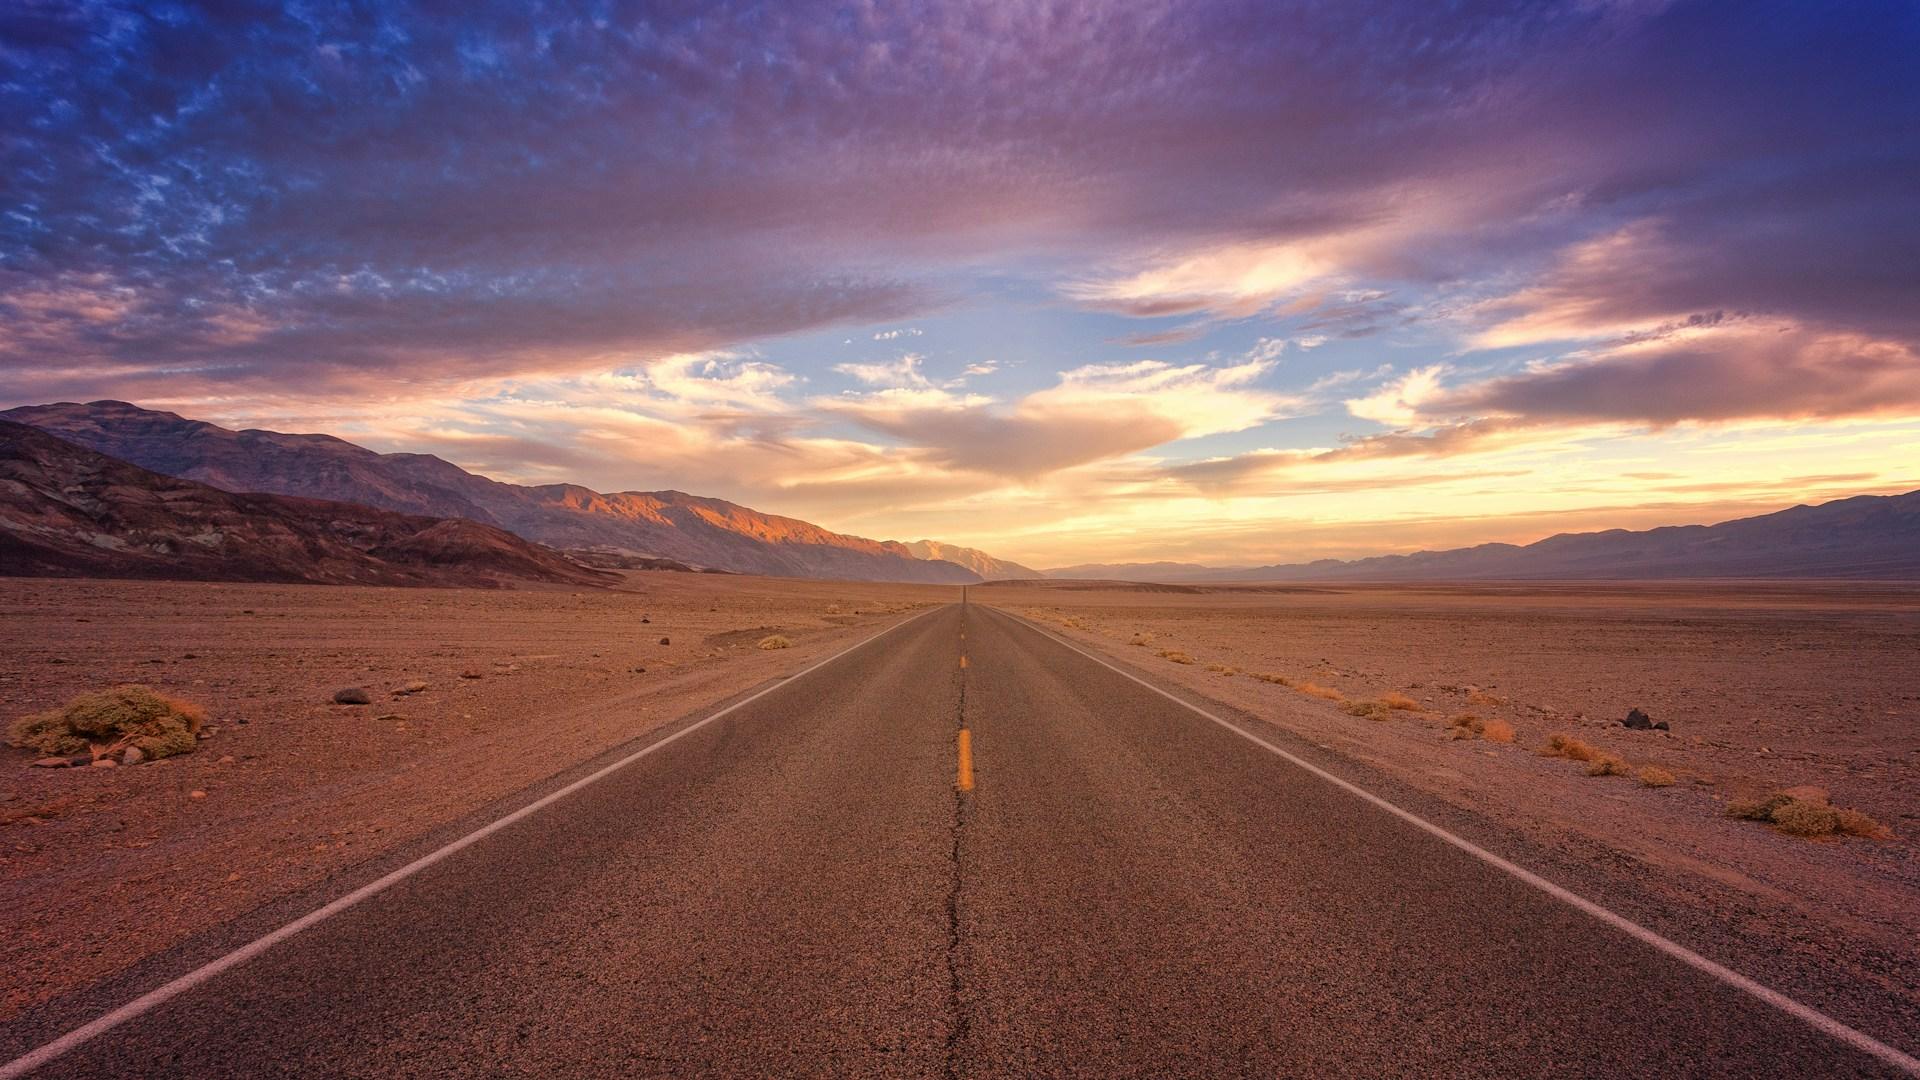
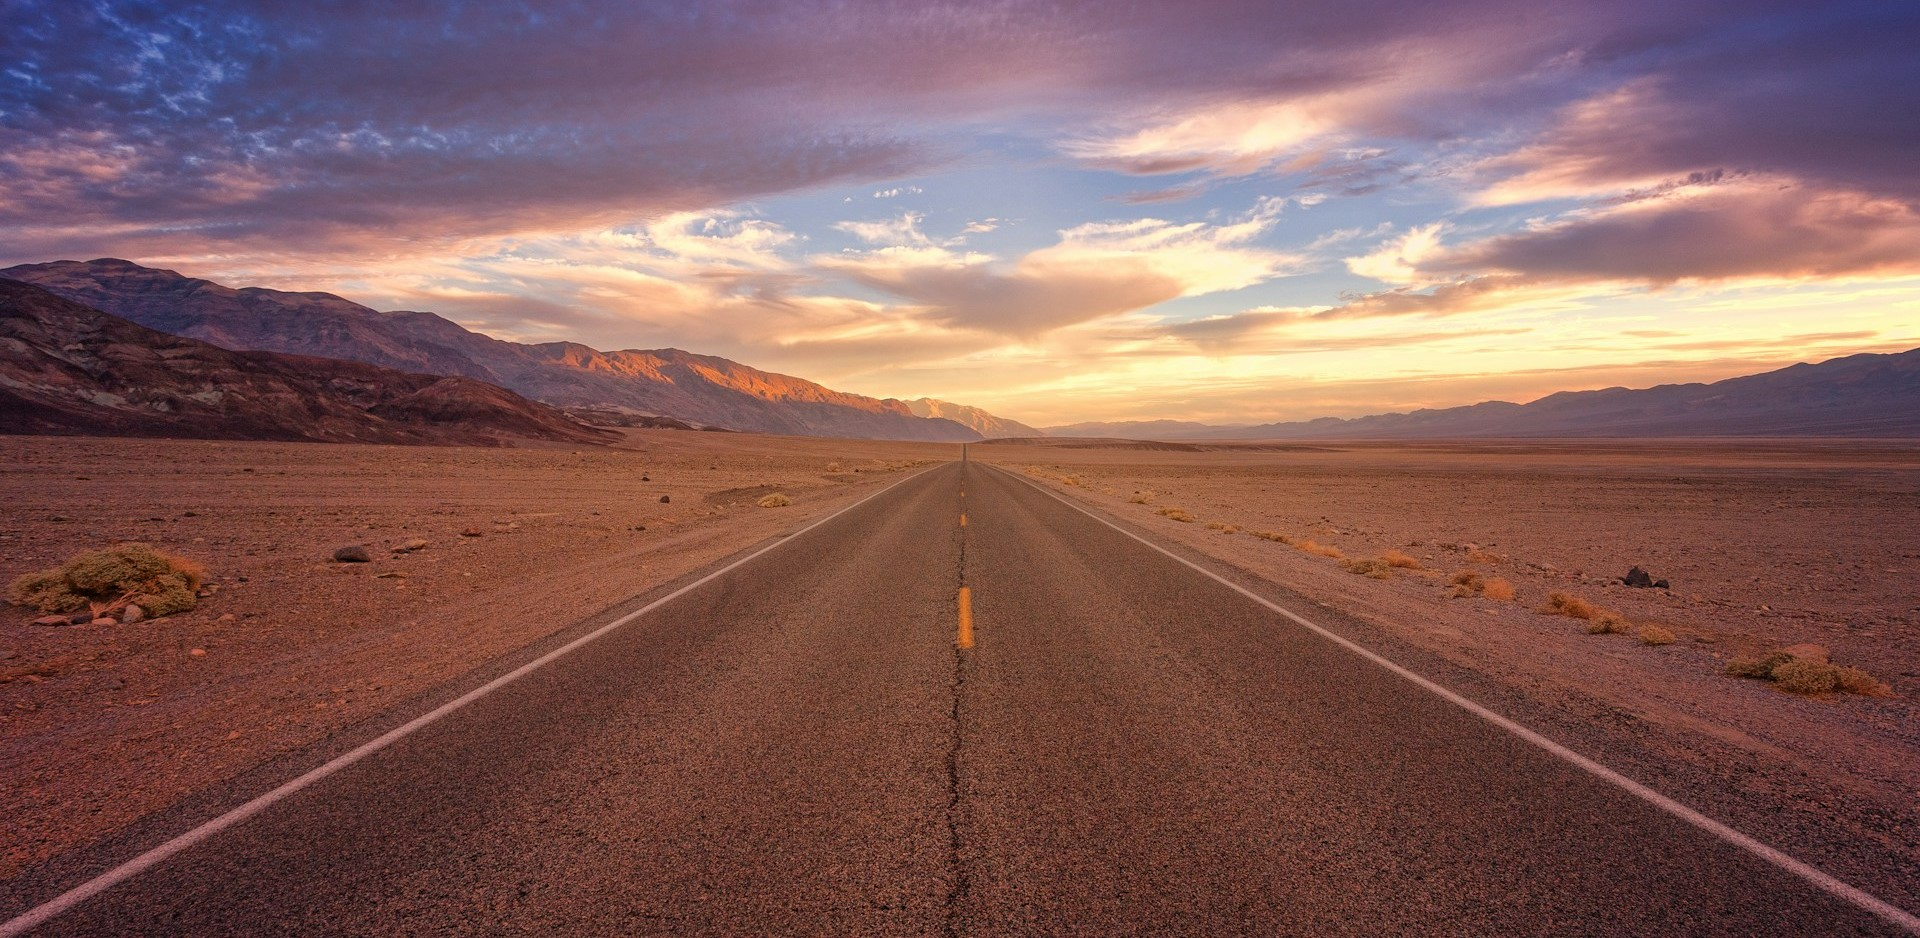
reset card

diff --git a/src/pages/Home/index.js b/src/pages/Home/index.js
@@ -2,13 +2,58 @@ import React from "react";
 import Layout from "../../layout/web-layout";
 import HomeHeroBanner from "../../section/home-hero-banner";
 import TrendCards from "../../components/cards/trend-cards";
+import { HeroImage } from "../../assets";
+import BaseColors from "../../constant";
 
 export default function Home() {
   return (
     <Layout>
       <HomeHeroBanner />
-      {/* 
-      <TrendCards /> */}
+
+      <div
+        className="row mx-0 justify-content-end"
+        style={{
+          background: `linear-gradient(to right, #000000 14%, rgb(255, 255, 255, 0) 62%)`,
+          marginTop: -101,
+        }}
+      >
+        <div
+          className="col-11 py-2 px-0"
+          style={{ background: "rgb(0, 0, 0, 0.9)" }}
+        >
+          <div
+            className="row m-0 justify-content-center p-0"
+            style={{
+              background: `linear-gradient(to bottom, rgb(20, 28, 41, 0.1) 25%, rgb(20, 28, 41)   62%)`,
+              borderTopLeftRadius: 50,
+              borderBottomLeftRadius: 50,
+            }}
+          >
+            <div className="col-9">
+              <div className="text-2 text-white ps-5 py-3 ">
+                Show You Must Watch
+              </div>
+              <TrendCards />
+            </div>
+          </div>
+          <div className="row m-0 justify-content-center">
+            <div className="col-9">
+              <div className="text-2 text-white ps-5 py-3 ">
+                Show You Must Watch
+              </div>
+              <TrendCards />
+              <div className="text-2 text-white ps-5 py-3 ">
+                Show You Must Watch
+              </div>
+              <TrendCards />
+              <div className="text-2 text-white ps-5 py-3 ">
+                Show You Must Watch
+              </div>
+              <TrendCards />
+            </div>
+          </div>
+        </div>
+      </div>
     </Layout>
   );
 }

diff --git a/src/components/cards/trend-cards/tcards.js b/src/components/cards/trend-cards/tcards.js
@@ -1,19 +1,30 @@
 import React from "react";
+import BaseColors from "../../../constant";
+import { FaStar } from "react-icons/fa";
+import { IoMdHeart } from "react-icons/io";
+import { LuEye } from "react-icons/lu";
 
 const Tcards = (props) => {
   return (
-    <div className="tcard">
-      <img src={props.cardimg} alt="" />
-      <h3>{props.head}</h3>
-      <p>{props.year}</p>
-      <div className="tcard-rat">
-        <div className="tc-rating">
-          <i class="fa fa-star" style={{ color: "#FFD43B" }}></i>
-          <p>{props.rating}</p>
+    <div className="">
+      <img
+        src={props.cardimg}
+        alt=""
+        style={{ height: "34vh", maxWidth: "11vw" }}
+        className="rounded shadow-lg"
+      />
+      <div className="text-2 text-white">{props.head}</div>
+      <p className="text-1 text-white">{props.year}</p>
+      <div className=" d-flex justify-content-between">
+        <div className="d-flex">
+          <FaStar size={12} color={BaseColors.yellow} />
+          <h5 className="px-2 text-1" style={{ color: BaseColors.yellow }}>
+            7.3
+          </h5>
         </div>
-        <div className="tc-fav">
-          <i class="fa fa-solid fa-eye" style={{ color: "grey" }}></i>
-          <i class="fa fa-solid fa-heart" style={{ color: "red" }}></i>
+        <div className="d-flex">
+          <LuEye size={16} color={BaseColors.white} className="me-2" />
+          <IoMdHeart size={16} color={BaseColors.danger} className="me-1" />
         </div>
       </div>
     </div>

diff --git a/src/layout/web-layout/index.js b/src/layout/web-layout/index.js
@@ -6,7 +6,7 @@ import WebFooter from "../footer";
 
 const { Header, Footer, Content } = Layout;
 export default function WebLayout(props) {
-  const { children } = props;
+  const { children, styles, classNames } = props;
   return (
     <Layout>
       <Header
@@ -21,13 +21,18 @@ export default function WebLayout(props) {
         <WebHeader />
       </Header>
       <Content
-        style={{
-          margin: 0,
-          padding: 0,
-          width: "100%",
-          height: "auto",
-          backgroundColor: "transparent",
-        }}
+        className={classNames}
+        style={
+          styles
+            ? styles
+            : {
+                margin: 0,
+                padding: 0,
+                width: "100%",
+                height: "auto",
+                backgroundColor: "#000",
+              }
+        }
       >
         {children}
       </Content>

diff --git a/src/App.css b/src/App.css
@@ -1,7 +1,7 @@
 #root {
   text-size-adjust: 100%;
   letter-spacing: normal;
-  background-color: black;
+  background-color: black !important;
   margin: 0 auto;
   width: 100%;
 }
@@ -63,27 +63,10 @@
   opacity: 1 !important;
 }
 
-.tcard-con {
-  display: flex;
-  gap: 22px;
-  padding: 0 3rem;
-}
-.tcard {
-  width: 23%;
-}
-.tcard img {
-  width: 100%;
-}
-.tcard-rat {
-  display: flex;
-  justify-content: space-between;
-}
-.tc-rating {
-  display: flex;
-  align-items: baseline;
-  gap: 10px;
-}
-.tc-fav {
+/* shadow */
+
+.shadow-1 {
+  box-shadow: rgba(0, 0, 0, 0.24) 0px 3px 8px;
 }
 /* footer */
 
@@ -383,6 +366,12 @@
 .text-2 {
   font-size: 1.6rem;
   font-weight: 500;
+  font-family: "Montserrat", sans-serif;
+}
+
+.text-3 {
+  font-size: 1.6rem;
+  font-weight: 600;
   font-family: "Montserrat", sans-serif;
 }
 

diff --git a/src/components/cards/trend-cards/index.js b/src/components/cards/trend-cards/index.js
@@ -8,7 +8,7 @@ const TrendCards = () => {
     { cardimg: HeroImage, head: "Techs Talk", year: "2013", rating: "7.7" },
     { cardimg: HeroImage, head: "Tech Talk", year: "2013", rating: "7.7" },
     { cardimg: HeroImage, head: "Tech Talk", year: "2013", rating: "7.7" },
-    { cardimg: HeroImage, head: "Tech Talk", year: "2013", rating: "7.7" },
+    // { cardimg: HeroImage, head: "Tech Talk", year: "2013", rating: "7.7" },
   ];
 
   return (
@@ -22,7 +22,7 @@ const TrendCards = () => {
 
     // <Tcards cardimg={card} head="Tech Talk" year="2013" rating="7.7"/>
     //   </div>
-    <div className="container tcard-con">
+    <div className="d-flex justify-content-around py-4 gx-1">
       {/* Use map to iterate over the array and render Tcards for each item */}
       {cardData.map((data, index) => (
         <Tcards

diff --git a/src/section/home-hero-banner/index.js b/src/section/home-hero-banner/index.js
@@ -16,10 +16,10 @@ export default function HomeHeroBanner() {
 
   return (
     <div
-      className="d-flex row m-0  p-0 position-relative "
+      className="d-flex row mx-0 p-0 "
       style={{
         backgroundImage: `url(${HeroImage})`,
-        height: "85vh",
+        height: "100vh",
         backgroundPosition: "center",
         backgroundSize: "cover",
         backgroundRepeat: "no-repeat",
